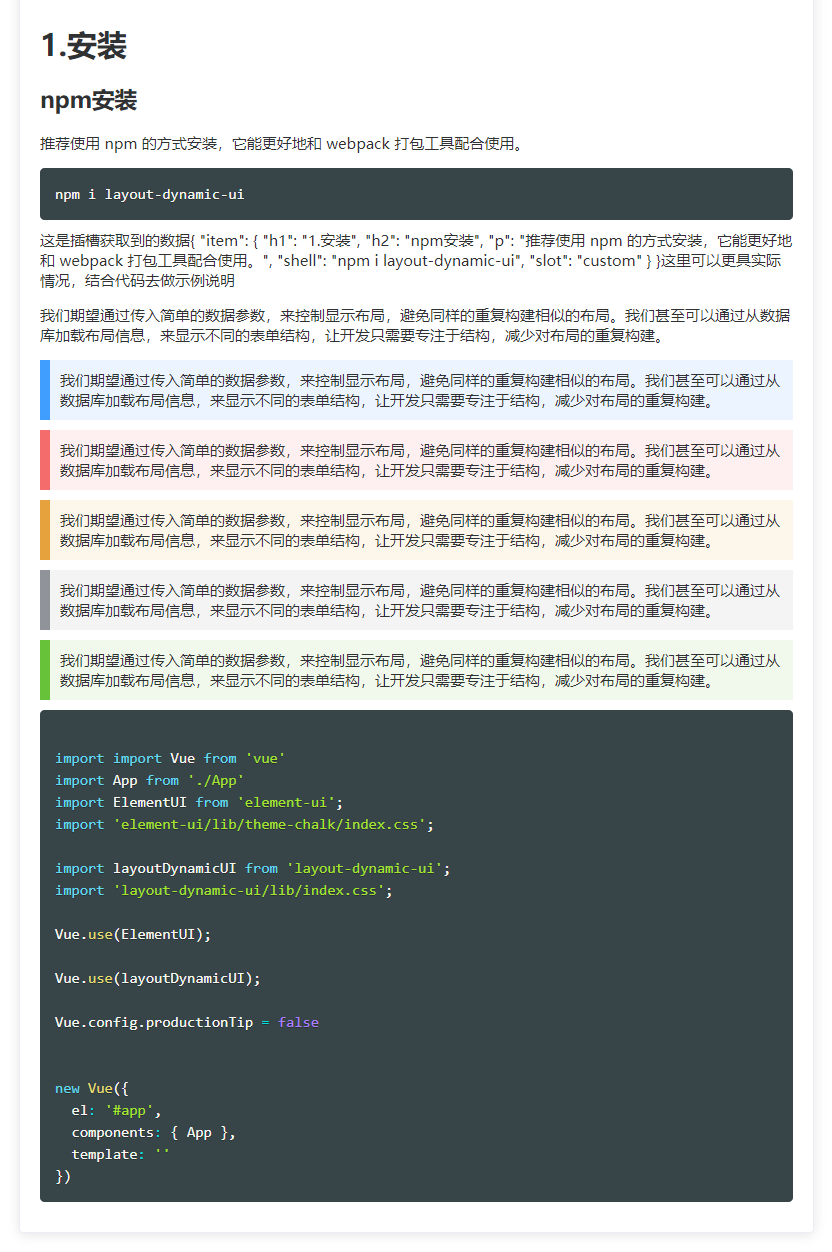
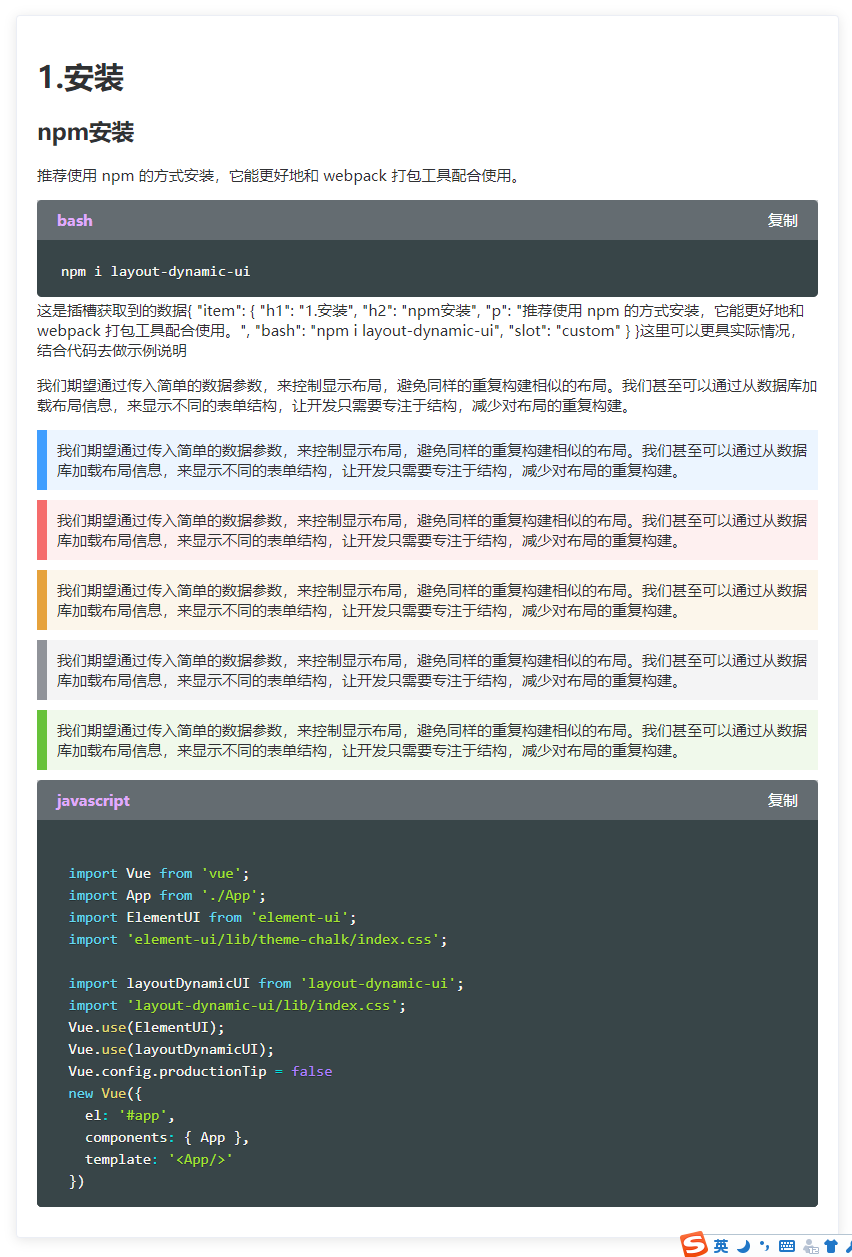
change `ld-doc` line-number

diff --git a/src/lib/ld-doc.vue b/src/lib/ld-doc.vue
@@ -1,6 +1,8 @@
 <template>
   <div>
-    <p v-if="typeof doc=='string'" v-html="doc"></p>
+    <template v-if="typeof doc=='string'">
+      <markdown-preview :initial-value="doc"></markdown-preview>
+    </template>
     <template v-else-if="typeof doc=='object'&&!Array.isArray(doc)">
       <template v-for="(key,i) in Object.keys(doc)">
         <template v-if="typeof doc[key]=='object'">
@@ -17,11 +19,14 @@
           <h1 v-else-if="key.toLocaleLowerCase()=='h1'" :key="`${index}_${i}`" v-html="doc[key]"></h1>
           <h2 v-else-if="key.toLocaleLowerCase()=='h2'" :key="`${index}_${i}`" v-html="doc[key]"></h2>
           <h3 v-else-if="key.toLocaleLowerCase()=='h3'" :key="`${index}_${i}`" v-html="doc[key]"></h3>
-          <div v-else-if="key.toLocaleLowerCase()=='slot'" :key="`${index}_${i}`">
+          <div v-else-if="key.toLocaleLowerCase()=='slot'" :key="`${index}_${i}`" class="m-b5">
             <slot :name="`${doc[key]}`" :item="doc"></slot>
           </div>
           <div v-else-if="key.toLocaleLowerCase().indexOf('tip')==0" :key="`${index}_${i}`" :class="getTipClass(key)"
             v-html="doc[key]"></div>
+          <div v-else-if="['md','markdown'].includes( key.toLocaleLowerCase())" :key="`${index}_${i}`">
+            <markdown-preview :initial-value="doc[key]"></markdown-preview>
+          </div>
           <div v-else-if="isCode(key).isCode" :key="`${index}_${i}`" :class="getTipClass(key)" class="v-show-content"
             style="white-space:pre-wrap" :style="{'height':isShowLineNumber(doc[key])?'':'90px'}">
             <div class="w b-i5 f-b a-i-c p10 box-b" style="left: 0;height: 38px;min-height: 38px;line-height: 38px;">
@@ -29,8 +34,8 @@
               <div @click="copValToClipboard(`${key}_${index}_${i}`)" class="t-r c-f w-60 h-30 cur-p">复制</div>
             </div>
             <pre :class="{'line-numbers':isShowLineNumber(doc[key]),'no-line-numbers':!isShowLineNumber(doc[key])}"
-              style="margin-top: 0;padding-top: 0;">
-              <code  :class="`language-${key.toLocaleLowerCase()}`" v-html="getPreCode(doc,key)"></code></pre>
+              style="margin-top: 0;padding-top: 0;padding-left: 5.8em;">
+              <code :class="`language-${key.toLocaleLowerCase()}`" v-html="getPreCode(doc,key)" style="position:relative;"></code></pre>
           </div>
           <div class="p10 p-l5 bor-ef c6" v-else :key="`${index}_${i}`" v-html="doc[key]"></div>
         </template>
@@ -57,9 +62,16 @@
 <script>
   //代码高亮
   import Prism from 'prismjs';
-  import lineNumber from './config/ld-doc-prism-line-number.js';
+  //markdown 文件展示
+  import {
+    MarkdownPreview
+  } from 'vue-meditor'
+
   export default {
     name: 'doc',
+    components: {
+      MarkdownPreview
+    },
     props: {
       doc: {
         type: [Array, Object, String],
@@ -72,7 +84,7 @@
       codeLanguages: {
         type: Array,
         default: () => {
-          return ["csharp", "html", "css", "javascript", "php", "dart", "bash", "shell", "sql"];
+          return ["csharp", "html", "css", "javascript", "php", "dart", "bash", "shell", "sql",'vue'];
         }
       }
     },
@@ -119,17 +131,51 @@
         }
       },
       getPreCode(doc, key) {
-        key = key == 'shell' ? 'bash' : key;
-        setTimeout(() => {
-          window.lineNumber();
-        }, 250)
+        let val=doc[key];
+        const keyVal = {
+          'shell': 'bash',
+          'vue':'javascript'
+        };
+        key = keyVal[key] ? keyVal[key] :key;
         let comp = Prism.languages[key] || Prism.languages['html'];
-        return Prism.highlight(doc[key], comp, key);
+        this.setLineNumber();
+        return Prism.highlight(val, comp, key);
       },
       setLineNumber() {
-        this.$nextTick(() => {
-          window.lineNumber();
-        })
+        setTimeout(() => {
+          let NEW_LINE_EXP = /\n(?!$)/g;
+          let PLUGIN_NAME = 'line-numbers';
+          let elements = Array.prototype.slice.call(document.querySelectorAll('pre.' + PLUGIN_NAME));
+          elements.forEach(per => {
+            let element = per.querySelector('code');
+            if (element.querySelector(".line-numbers-rows")) {
+              return;
+            }
+            let lineNumberRows = 1;
+            var lineNumberStart = parseInt(element.getAttribute('data-start'), 10) || 1;
+            var lineNumberEnd = lineNumberStart + (element.children.length);
+
+            let lineNumberSizer = element.querySelector('.line-numbers-sizer')
+
+            if (!lineNumberSizer) {
+              lineNumberSizer = document.createElement('span');
+              lineNumberSizer.className = 'line-numbers-sizer';
+            }
+
+            lineNumberSizer.innerHTML = '0';
+            lineNumberSizer.style.display = 'block';
+            var oneLinerHeight = lineNumberSizer.getBoundingClientRect().height;
+            lineNumberSizer.innerHTML = '';
+            let infoLines = element.textContent.split(NEW_LINE_EXP);
+            var lines = new Array(infoLines.length + 1).join('<span></span>');
+            var lineNumbersWrapper;
+            lineNumbersWrapper = document.createElement('span');
+            lineNumbersWrapper.setAttribute('aria-hidden', 'true');
+            lineNumbersWrapper.className = 'line-numbers-rows';
+            lineNumbersWrapper.innerHTML = lines;
+            element.appendChild(lineNumbersWrapper);
+          })
+        }, 250);
       }
     },
     updated() {
@@ -276,7 +322,7 @@
 
   pre[class*="language-"].line-numbers {
     position: relative;
-    padding-left: 5.8em;
+    /* padding-left: 5.8em; */
     counter-reset: linenumber;
   }
 

diff --git a/src/pages/doc.vue b/src/pages/doc.vue
@@ -40,7 +40,7 @@
         },
         {
           code:{
-            javascript:`
+            vue:`
                 import Vue from 'vue';
                 import App from './App';
                 import ElementUI from 'element-ui';
@@ -57,7 +57,12 @@
                   template: '<App/>'
                 })`.replace(/^             /gm, ' ')
 
-          }
+          },
+          md:`|姓名|年龄|
+            |-|-|
+            |张三|18|
+            |李四|19|
+            `
         }]
       }
     }

diff --git a/README.md b/README.md
@@ -6,12 +6,14 @@
 > 因目前还处于开发版本，请及时使用`npm update layout-dynamic-ui` 更新到最新版本
 
 # [升级日志](./doc/version.md)
-> v1.1.8
+> v1.2.0
 >
 >  [添加轻量级结构化Web文档渲染](./ld-doc.md)
 >
 >  优化 `ld-doc` 添加行号，添加复制按钮，点击添加到剪贴板。
 >
+> 添加 简单的 mrkdown 文档支持，使用关键字 `md`或者 `markdown`
+
 
 
 # 使用方式

diff --git a/doc/ld-doc.md b/doc/ld-doc.md
@@ -17,8 +17,8 @@
 |javascript||
 |dart||
 |bash||
-|shell||
 |sql||
+|md\|markdown|markdown简单文档支持|
 ## 示例
 ```html
   <doc :doc="doc">
